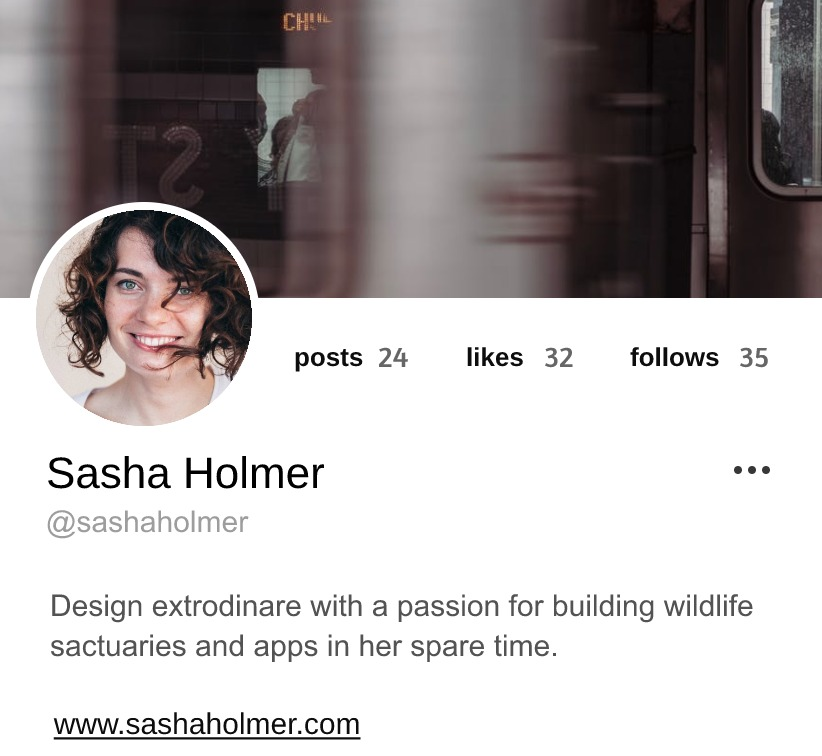
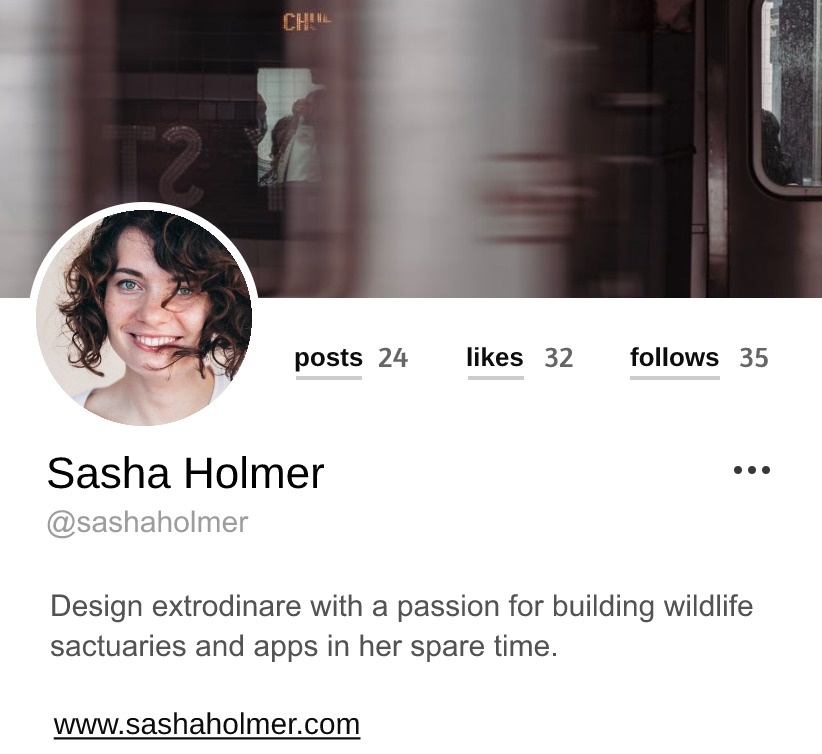
update project list, team list components, likes page

diff --git a/src/routes/_components/ProjectTeamList.svelte b/src/routes/_components/ProjectTeamList.svelte
@@ -1,0 +1,40 @@
+<script>
+	import Proxy from '../../components/Proxy.svelte';
+
+    export let isOwner = false;
+    export let isNew = false;
+
+    let proxyImage = 'project_team';
+    $: {
+        if (isNew) {
+            proxyImage = 'project_team_populate';
+        } else {
+            if (isOwner) {
+                proxyImage = 'project_team_owner';
+            } else {
+                proxyImage = 'project_team';
+            }
+        }
+    }
+
+	let projectId = 'm62lsp2o';
+</script>
+
+<div class="content">
+	<Proxy image="{proxyImage}" className="contentItem" >
+        <!-- Contact Profile -->
+        <a href="profile/bl20a8lm" style="
+            left: 0;
+            top: 31px;
+            width: 100%;
+            height: 56px;">&nbsp;</a>
+    </Proxy>
+</div>
+
+<style>
+	.content :global(.contentItem) {
+		width: 100%;
+
+		margin-bottom: 10px;
+	}
+</style>

diff --git a/src/routes/profile/index.svelte b/src/routes/profile/index.svelte
@@ -2,6 +2,7 @@
 	import ScrollView from '../../components/ScrollView.svelte';
 	import Proxy from '../../components/Proxy.svelte';
 
+	import ProfileOverview from './../_components/ProfileOverview.svelte';
 	import ProjectList from './../_components/ProjectList.svelte';
 </script>
 
@@ -27,7 +28,7 @@
 					width: 129px;
 					height: 47px;">&nbsp;</a>
 			</Proxy>
-			<Proxy image="profile_overview_owner" />
+			<ProfileOverview isOwner="{true}" />
 			<Proxy image="profile_overview_owner_actions" />
 		</div>
 		<Proxy image="profile_skills_owner" className="contentItem" />

diff --git a/src/routes/profile/[profile].svelte b/src/routes/profile/[profile].svelte
@@ -2,6 +2,7 @@
 	import ScrollView from '../../components/ScrollView.svelte';
 	import Proxy from '../../components/Proxy.svelte';
 
+	import ProfileOverview from './../_components/ProfileOverview.svelte';
 	import ProjectList from './../_components/ProjectList.svelte';
 </script>
 
@@ -27,7 +28,7 @@
 					width: 132px;
 					height: 47px;">&nbsp;</a>
 			</Proxy>
-			<Proxy image="profile_overview" />
+			<ProfileOverview />
 			<Proxy image="profile_overview_actions">
 				<!-- Send Message -->
 				<a href="messages/l40smlp3" style="

diff --git a/src/routes/_components/ProjectList.svelte b/src/routes/_components/ProjectList.svelte
@@ -1,0 +1,24 @@
+<script>
+    import Proxy from '../../components/Proxy.svelte';
+
+	let projectId = 'm62lsp2o';
+</script>
+
+<div class="content">
+	<Proxy image="profile_projects" className="contentItem" >
+        <!-- Project Links -->
+        <a href="projects/{projectId}" style="
+            left: 0px;
+            top: 40px;
+            width: 100%;
+            height: 154px;">&nbsp;</a>
+    </Proxy>
+</div>
+
+<style>
+	.content :global(.contentItem) {
+		width: 100%;
+
+		margin-bottom: 10px;
+	}
+</style>

diff --git a/src/routes/_components/ProfileOverview.svelte b/src/routes/_components/ProfileOverview.svelte
@@ -1,0 +1,22 @@
+<script>
+    import Proxy from '../../components/Proxy.svelte';
+
+    export let isOwner = false;
+    $: proxyImage = isOwner ? 'profile_overview_owner' : 'profile_overview';
+
+	let projectId = 'm62lsp2o';
+</script>
+
+<div class="content">
+	<Proxy image="{proxyImage}" >
+        <!-- Likes -->
+        <a href="profile/likes" style="
+            left: 199px;
+            top: 144px;
+            width: 77px;
+            height: 39px;">&nbsp;</a>
+    </Proxy>
+</div>
+
+<style>
+</style>

diff --git a/src/routes/profile/likes.svelte b/src/routes/profile/likes.svelte
@@ -1,0 +1,24 @@
+<script>
+	import ScrollView from '../../components/ScrollView.svelte';
+	import Proxy from '../../components/Proxy.svelte';
+
+	let projectId = 'm62lsp2o';
+</script>
+
+<svelte:head>
+	<title>Flock</title>
+</svelte:head>
+
+<ScrollView>
+	<Proxy image="likes">
+        <!-- Project Links -->
+        <a href="projects/{projectId}" style="
+			left: 0px;
+			top: 47px;
+			width: 100%;
+			height: 869px;">&nbsp;</a>
+	</Proxy>
+</ScrollView>
+
+<style>
+</style>
